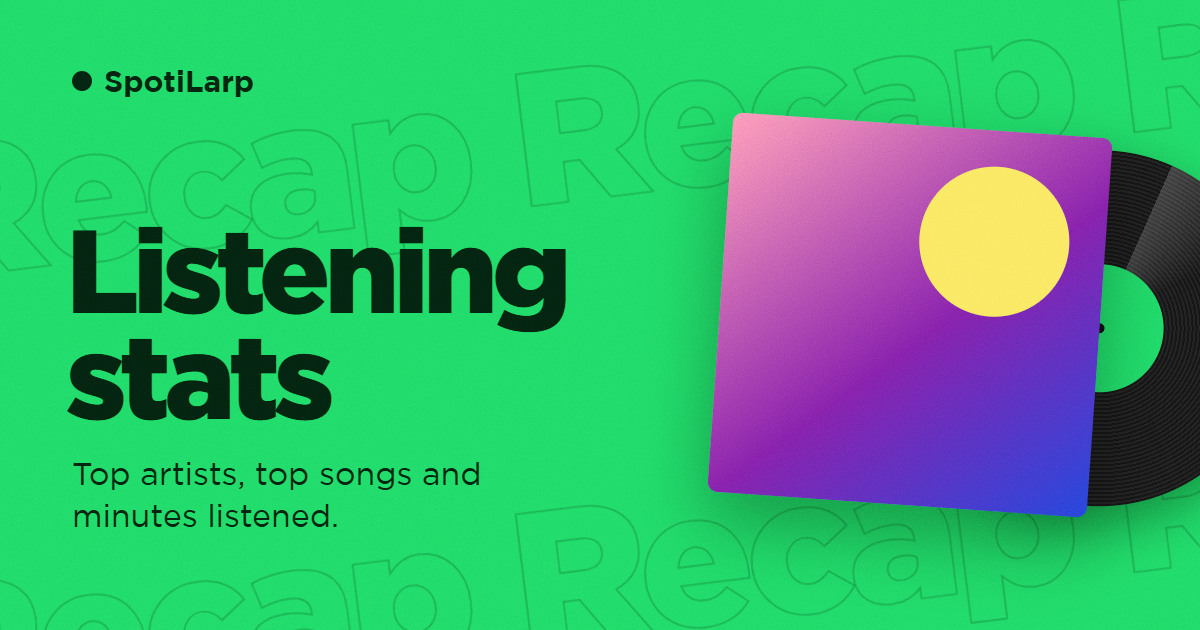
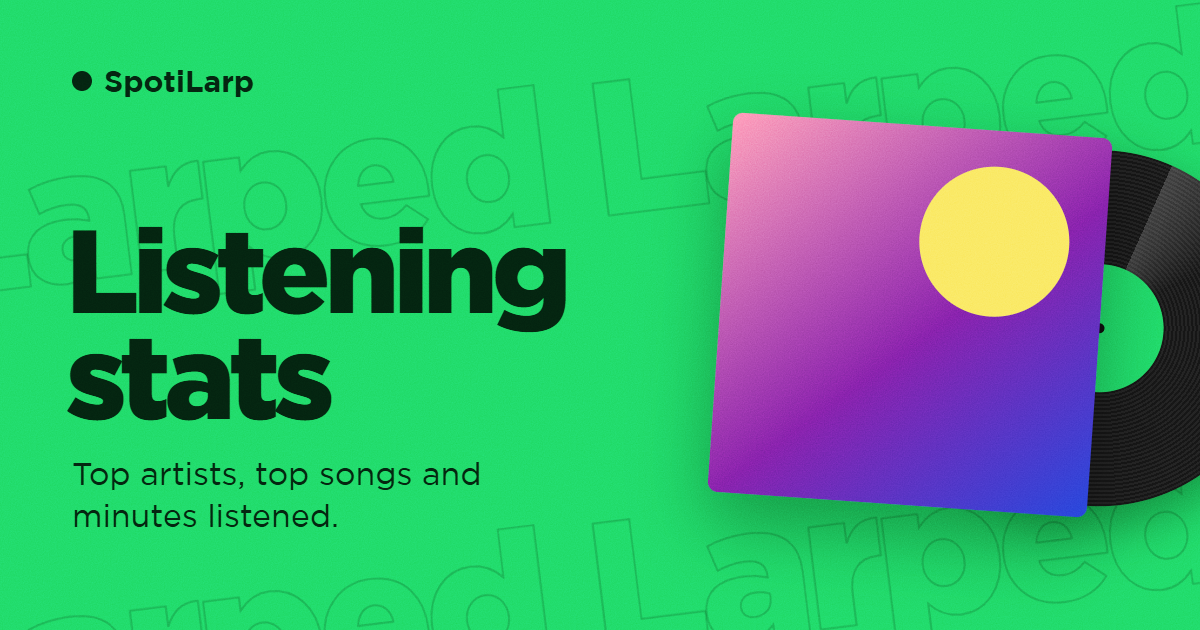
Call the year's look-back Larped
"Your 2026, Larped" on the Stats page, the slides, the share card, the GIF, the playlist and its cover, and the share page, in place of Recap.

diff --git a/src/lib/components/Recap.svelte b/src/lib/components/Recap.svelte
@@ -336,7 +336,7 @@
 
   const topTracks = $derived(recap.songs.map((song) => asTrack(song.track)));
   const playlistName = $derived(`Your top songs ${recap.year}`);
-  const recapTitle = $derived(name ? `${name}'s ${recap.year} Recap` : `My ${recap.year} Recap`);
+  const recapTitle = $derived(name ? `${name}'s ${recap.year}, Larped` : `My ${recap.year}, Larped`);
 
   /** @returns {import("../shareCard.js").ShareCard} */
   function recapCard() {
@@ -393,7 +393,7 @@
       notify(
         covered
           ? `Saved as "${recapTitle}". Copy its link to show it off on Discord.`
-          : `Saved as "${recapTitle}". Log out and back in to put your Recap on its cover.`,
+          : `Saved as "${recapTitle}". Log out and back in to give it its Larped cover.`,
       );
     } catch (e) {
       notify(`Couldn't save the playlist: ${e}`);
@@ -475,7 +475,7 @@
   class="recap"
   role="dialog"
   aria-modal="true"
-  aria-label={`Your ${recap.year} Recap`}
+  aria-label={`Your ${recap.year}, Larped`}
   tabindex="-1"
   bind:this={root}
   transition:fade={{ duration: 160 }}
@@ -516,13 +516,13 @@
     {#key `${recap.year} ${index}`}
       <section class="slide {kind}" aria-roledescription="slide" aria-label={`${index + 1} of ${shownSlides.length}`}>
         {#if kind === "intro"}
-          {@render band(`${recap.year} Recap`, "4%")}
-          {@render band(`${recap.year} Recap`, "19%", true)}
-          {@render band(`${recap.year} Recap`, "34%")}
+          {@render band(`${recap.year} Larped`, "4%")}
+          {@render band(`${recap.year} Larped`, "19%", true)}
+          {@render band(`${recap.year} Larped`, "34%")}
           <div class="bottom">
             <p class="lead rise">Your</p>
             <h2 class="giant rise" style:--d="1">{recap.year}</h2>
-            <p class="lead rise" style:--d="2">Recap</p>
+            <p class="lead rise" style:--d="2">Larped</p>
             {#if !tracker.loaded}
               <p class="body rise" style:--d="3">Loading your listening...</p>
             {:else if enough}

diff --git a/src/lib/shareCard.js b/src/lib/shareCard.js
@@ -108,7 +108,7 @@ export function cardSubtitle(card) {
 /** A name that's safe in a file name and a request header. @param {ShareCard} card */
 export function cardFileName(card) {
   const title = card.title.replace(/[^\x20-\x7e]/g, "").replace(/[\\/:*?"<>|]/g, "").trim();
-  return card.kind === "recap" ? `SpotiLarp Recap ${title}.png` : `SpotiLarp stats - ${title || "listening"}.png`;
+  return card.kind === "recap" ? `SpotiLarp - ${title}, Larped.png` : `SpotiLarp stats - ${title || "listening"}.png`;
 }
 
 // ---- The background ----
@@ -516,7 +516,7 @@ export async function drawPlaylistCover(card) {
   const yearBaseline = 110 + year.size * 0.74;
   ctx.fillText(year.lines[0] ?? "", pad - year.size * 0.04, yearBaseline);
   ctx.font = `800 96px ${FONT}`;
-  ctx.fillText("Recap", pad - 3, yearBaseline + 100);
+  ctx.fillText("Larped", pad - 3, yearBaseline + 100);
 
   if (card.name) {
     ctx.font = `700 34px ${FONT}`;

diff --git a/src/lib/shareGif.js b/src/lib/shareGif.js
@@ -92,8 +92,8 @@ function scenes(card, pictures) {
         const e = ease(t);
         ctx.fillStyle = "#1ed760";
         ctx.fillRect(0, 0, SIZE, SIZE);
-        band(ctx, card.kind === "recap" ? "Recap" : "Stats", 70, "rgba(4, 33, 15, 0.22)", t);
-        band(ctx, card.kind === "recap" ? "Recap" : "Stats", 430, "rgba(4, 33, 15, 0.22)", 1 - t);
+        band(ctx, card.kind === "recap" ? "Larped" : "Stats", 70, "rgba(4, 33, 15, 0.22)", t);
+        band(ctx, card.kind === "recap" ? "Larped" : "Stats", 430, "rgba(4, 33, 15, 0.22)", 1 - t);
         brand(ctx, INK_GREEN);
         ctx.globalAlpha = e;
         ctx.fillStyle = INK_GREEN;

diff --git a/docs/stats/index.html b/docs/stats/index.html
@@ -344,7 +344,7 @@
         byId("title").classList.toggle("long", title.length > 5);
         const whose = name ? `${name}'s` : "My";
         byId("sub").textContent = recap ? `${whose} year in music` : `${whose} listening`;
-        document.title = `${recap ? `${whose} ${title} Recap` : `${whose} stats: ${title}`} · SpotiLarp`;
+        document.title = `${recap ? `${whose} ${title}, Larped` : `${whose} stats: ${title}`} · SpotiLarp`;
 
         for (const [artistName, id] of artists) {
           byId("artists").append(row(text(artistName, 120), ID.test(id ?? "") ? `https://open.spotify.com/artist/${id}` : ""));

diff --git a/src/lib/components/ShareStatsDialog.svelte b/src/lib/components/ShareStatsDialog.svelte
@@ -31,7 +31,7 @@
   let gifLink = $state("");
 
   const shown = $derived({ ...card, name: showName ? card.name : "", color });
-  const label = $derived(card.kind === "recap" ? `Share your ${card.title} Recap` : "Share your stats");
+  const label = $derived(card.kind === "recap" ? `Share your ${card.title}, Larped` : "Share your stats");
 
   onMount(() => {
     dialog?.focus();

diff --git a/src/lib/components/views/StatsView.svelte b/src/lib/components/views/StatsView.svelte
@@ -229,7 +229,7 @@
       </button>
       <button type="button" class="secondary" onclick={share} disabled={!tracker.loaded || sum.plays === 0}>Share</button>
       <button type="button" class="recap" onclick={() => openRecap(recapFor)} disabled={!tracker.loaded}>
-        Your {recapFor} Recap
+        {recapFor}, Larped
       </button>
     </div>
   </header>

diff --git a/src/lib/recap.js b/src/lib/recap.js
@@ -1,5 +1,6 @@
 /**
- * A year of listening looked back on, for the Recap (components/Recap.svelte),
+ * A year of listening looked back on, for the Recap (components/Recap.svelte;
+ * the app calls it "Larped", as in "Your 2026, Larped"),
  * worked out from the tracker's plays in one go. Plain functions, like
  * trackerStats.js.
  *
